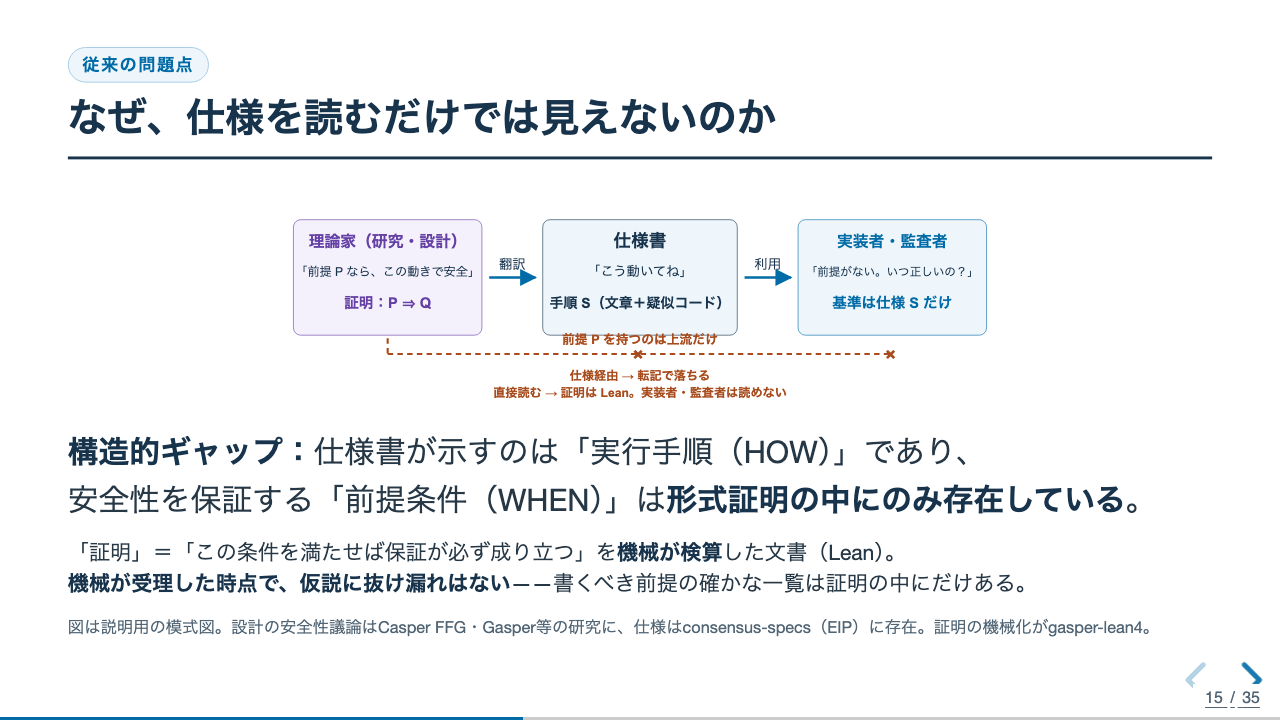
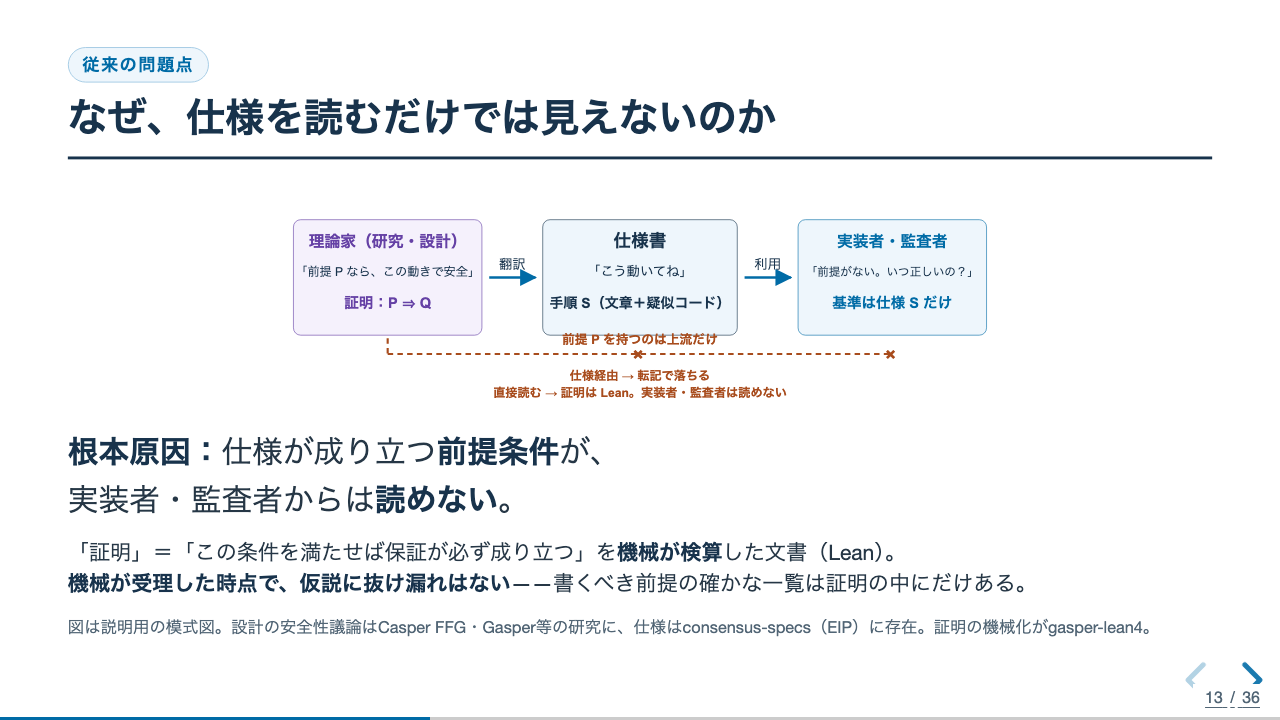
refactor(slides): 移動とBeforeメッセージ復元（なぜ仕様を読むだけでは見えないのかを具体例の前へ配置）

Changed region(s): [[0.0312, 0.6111, 0.75, 0.7333], [0.5, 0.6722, 0.875, 0.7333], [0.3438, 0.9778, 0.4062, 1.0]]

diff --git a/slides.md b/slides.md
@@ -296,6 +296,27 @@ Note:
 
 <p class="section-tag">従来の問題点</p>
 
+## なぜ、仕様を読むだけでは見えないのか
+
+<img class="pipeline-visual" src="figs/diagram-spec-pipeline.svg" alt="3者の会話。理論家「前提Pなら、この動きで安全」（証明 P⇒Q）。仕様書「こう動いてね」（手順Sのみ）。実装者・監査者「前提がない。いつ正しいの？」（基準はSだけ）。前提Pを持つのは上流だけで、届く道は2つとも閉ざされている。仕様経由は転記で落ち、直接読むにも証明はLeanで下流は読めない">
+<p class="message"><strong>根本原因：</strong>仕様が成り立つ<strong>前提条件</strong>が、<br>実装者・監査者からは<strong>読めない</strong>。</p>
+<p class="small">「証明」＝「この条件を満たせば保証が必ず成り立つ」を<strong>機械が検算</strong>した文書（Lean）。<br><strong>機械が受理した時点で、仮説に抜け漏れはない</strong>——書くべき前提の確かな一覧は証明の中にだけある。</p>
+<p class="source">図は説明用の模式図。設計の安全性議論はCasper FFG・Gasper等の研究に、仕様はconsensus-specs（EIP）に存在。証明の機械化がgasper-lean4。</p>
+
+Note:
+クォーラム交差のような安全性の前提条件が、なぜ仕様書に書かれないのか。
+これは仕様書の欠陥というより、仕様書と証明の「役割分担」に起因する構造的ギャップです。
+先に理論家による研究と設計があり、そこには安全性の証明、つまり「この前提が満たされるとき、安全性が成立する（WHEN）」という数学的議論が存在します。
+その設計を、各ノードが実行可能な状態遷移手順（HOW）へと書き下したものが仕様書です。
+実装者はこの手順に従ってコードを書き、監査者はこの手順を基準に確認します。
+現場は公式テスト（spec-tests）をパスすることで「暗黙の前提も満たしている」と信じていますが、安全性を保証する前提条件（WHEN）は証明側にのみ保持されており、仕様書の手順記述の中には現れません。
+さらに、証明はLeanという形式言語で記述されているため、現場の実装者や監査者が直接読み解くことも困難です。
+では、このギャップのせいで現場の確認はどう歪むのか。次に見ます。
+
+---
+
+<p class="section-tag">従来の問題点</p>
+
 ## 問題の入口：確認できるのは、仕様に出たものだけ
 
 <p>さきほどの確認の流れをもう一度見る。<br>確認項目は<strong>仕様の文章から列挙する</strong>——つまり、こうなる：</p>
@@ -309,12 +330,11 @@ Note:
 <p class="small">では実際に、文章に出ていない条件はあるのか——次は具体例です。</p>
 
 Note:
-前のスライドでは「同じ記述を別々に読む」ずれを見ました。
-では監査では何が見えているのか——さきほどの確認の流れをもう一度見ます。
-確認項目は仕様の文章から作られるので、文章に書いてあるものは項目になり、誰かが見ます。
-一方、文章に書いていないものは項目にならず、結果として誰も見ません。
-つまりこの確認方法には、「文章に出たものだけが見える」という見え方の限界があります。
-もし正しさに必要な条件が文章に出ていなかったら、その条件は監査の対象にすらなりません。
+前提が届かない結果、監査やテストの現場で何が起きているのか。
+確認項目は仕様の文章から作られるので、文章に書いてある「手順」は項目になり、誰かが見ます。
+一方、文章に書いていない「前提」は項目にならず、結果として誰も見ません。
+現場は「仕様に書いてある手順（HOW）」しか確認できない見え方の限界を抱えています。
+もし正しさに必要な前提条件（WHEN）が文章に出ていなかったら、その条件は監査の対象にすらなりません。
 では実際に、仕様に出ていない条件はあるのでしょうか。
 次に具体的な例を二つ見ます——一つは仮想例、もう一つは実際に起きた修正です。
 
@@ -372,31 +392,7 @@ Nimbusの修正#461は、正当化履歴を保持する4ビット、justificatio
 なお前提の非明示がこのバグの原因だったとは示していません。
 データセットの分類ラベルが同じ処理領域に位置するという、位置的な共起関係の例示です。
 分母のずれも、状態のずれも、仕様の手順記述の外側にある「前提条件」に起因します。
-では、なぜその条件は仕様書を読むだけでは見えないのでしょうか。
-仕様が作られる構造に目を向けます。
-
----
-
-<p class="section-tag">従来の問題点</p>
-
-## なぜ、仕様を読むだけでは見えないのか
-
-<img class="pipeline-visual" src="figs/diagram-spec-pipeline.svg" alt="3者の会話。理論家「前提Pなら、この動きで安全」（証明 P⇒Q）。仕様書「こう動いてね」（手順Sのみ）。実装者・監査者「前提がない。いつ正しいの？」（基準はSだけ）。前提Pを持つのは上流だけで、届く道は2つとも閉ざされている。仕様経由は転記で落ち、直接読むにも証明はLeanで下流は読めない">
-<p class="message"><strong>構造的ギャップ：</strong>仕様書が示すのは「実行手順（HOW）」であり、<br>安全性を保証する「前提条件（WHEN）」は<strong>形式証明の中にのみ存在している</strong>。</p>
-<p class="small">「証明」＝「この条件を満たせば保証が必ず成り立つ」を<strong>機械が検算</strong>した文書（Lean）。<br><strong>機械が受理した時点で、仮説に抜け漏れはない</strong>——書くべき前提の確かな一覧は証明の中にだけある。</p>
-<p class="source">図は説明用の模式図。設計の安全性議論はCasper FFG・Gasper等の研究に、仕様はconsensus-specs（EIP）に存在。証明の機械化がgasper-lean4。</p>
-
-Note:
-ここまでの二つの例——分母のずれと、計算に渡す状態のずれ——は、どちらも仕様の手順には出ていない条件の話でした。
-では、なぜその条件は仕様から見えないのでしょうか。
-これは仕様書の欠陥というより、仕様書と証明の「役割分担」に起因する構造的ギャップです。
-先に理論家による研究と設計があり、そこには安全性の証明、つまり「この前提が満たされるとき、安全性が成立する（WHEN）」という数学的議論が存在します。
-その設計を、各ノードが実行可能な状態遷移手順（HOW）へと書き下したものが仕様書です。
-実装者はこの手順に従ってコードを書き、監査者はこの手順を基準に確認します。
-しかし、安全性を保証するための前提条件（WHEN）は証明側にのみ保持されており、仕様書の手順記述の中には現れません。
-さらに、証明はLeanという形式言語で記述されているため、現場の実装者や監査者が直接読み解くことも困難です。
-ならば、証明の中に厳密に存在する前提条件を機械的に抽出し、現場が確認できる「チェック候補」として届ければよい。
-これが本研究の提案アプローチです。
+では、仕様どおりに作っても前提が満たされないと何が起きるのか、保証の範囲を見ます。
 
 ---
 
